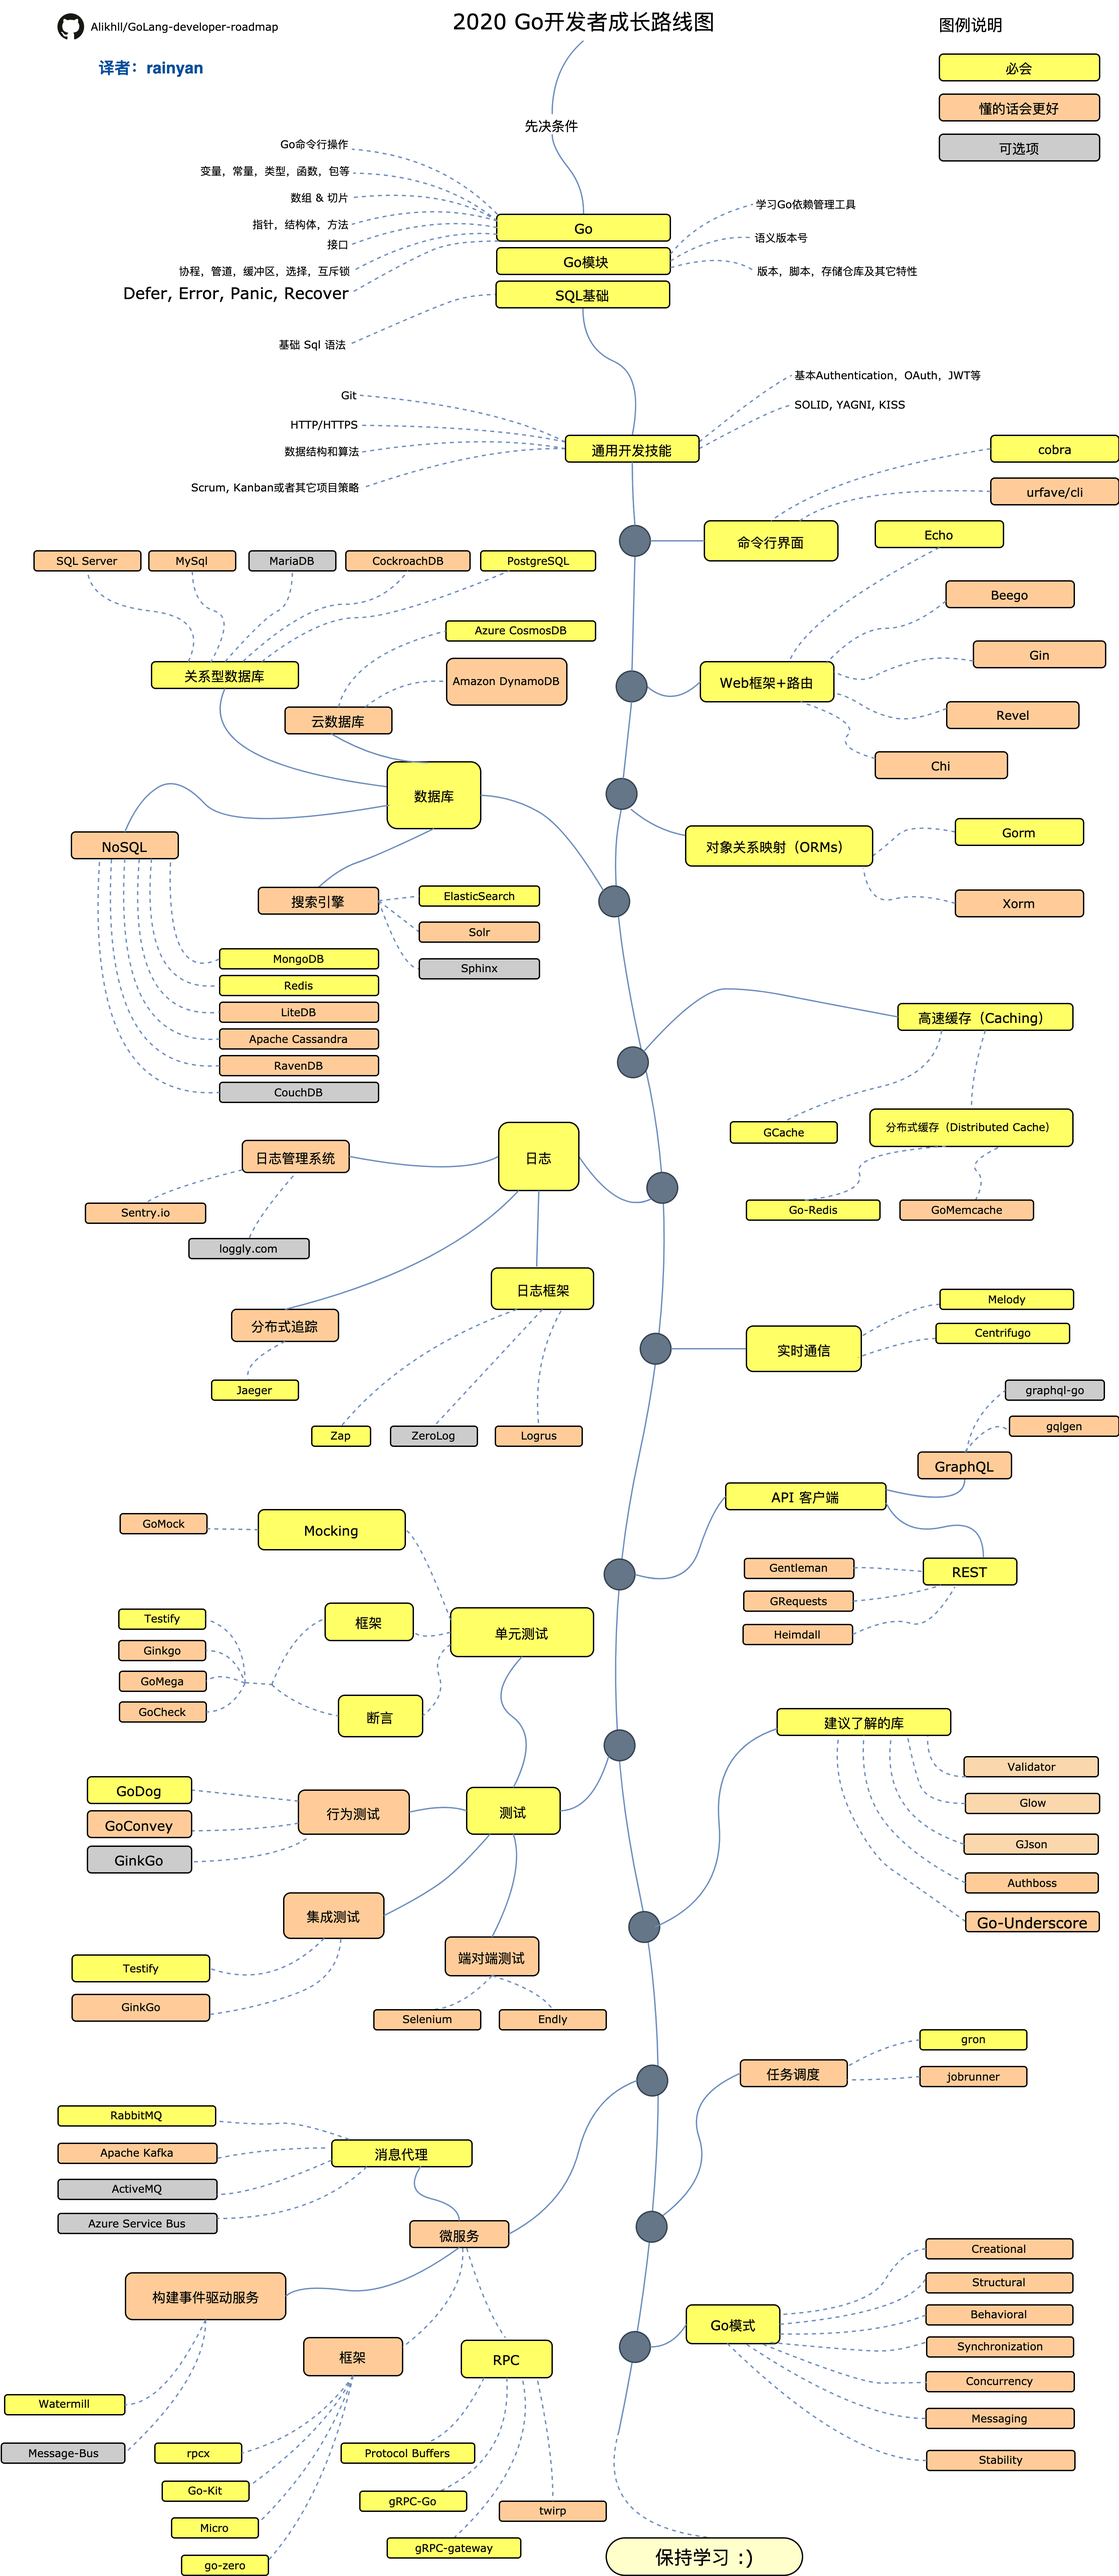
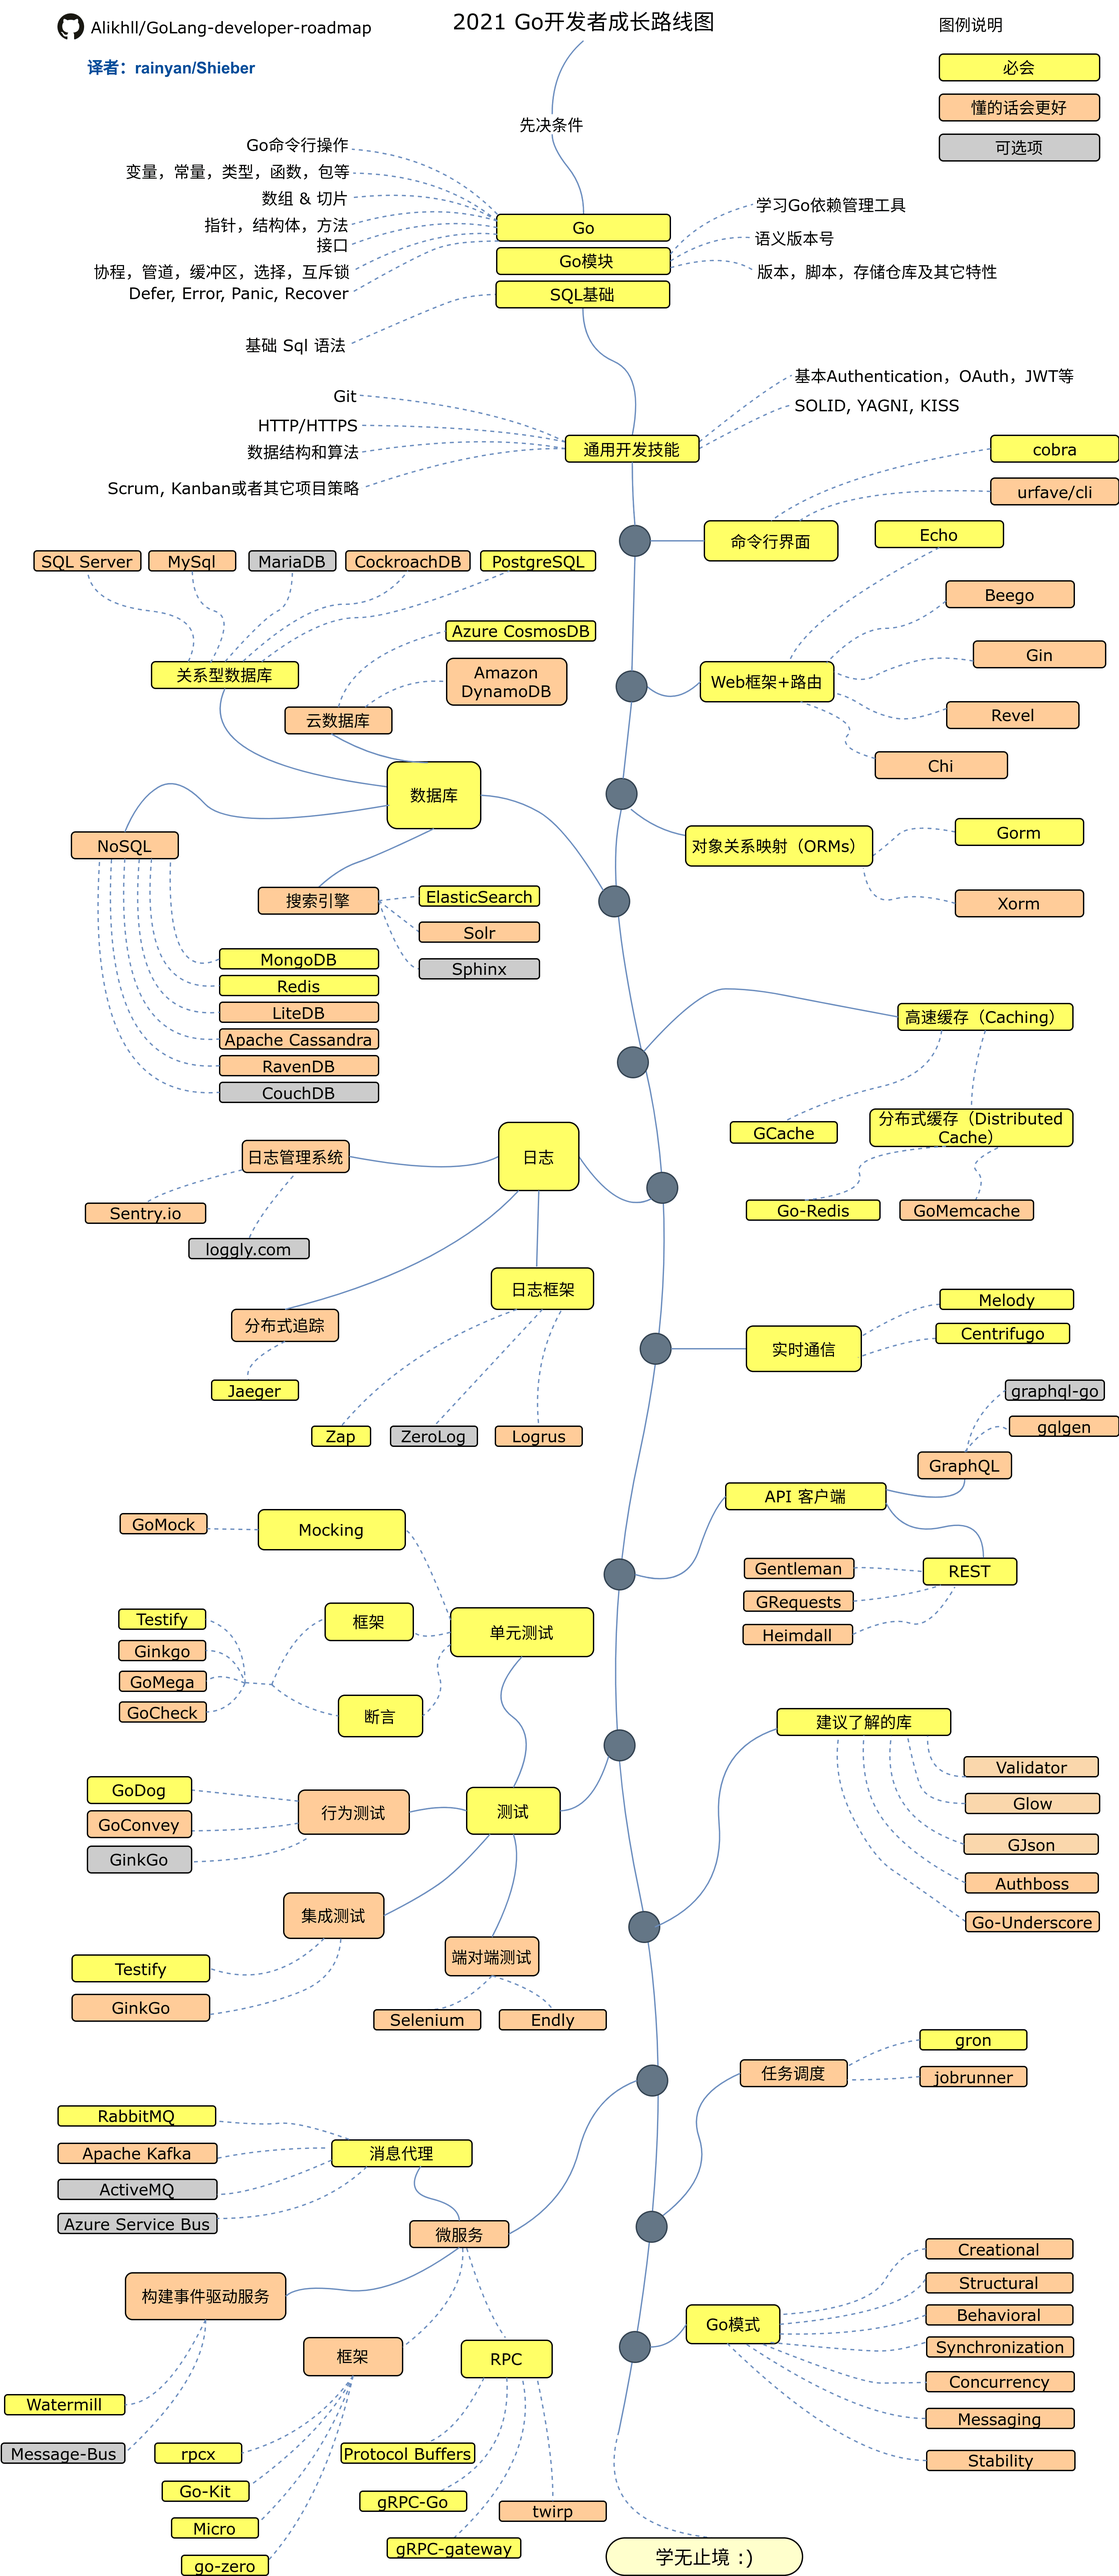
update to 2021

diff --git a/i18n/zh-CN/ReadMe-zh-CN.md b/i18n/zh-CN/ReadMe-zh-CN.md
@@ -1,6 +1,6 @@
 # Go 开发者路线图
 
-> 在 2020年 成为一名 [Go](https://golang.org/) 开发者的路线图：
+> 在 2021 年 成为一名 [Go](https://golang.org/) 开发者的路线图：
 
 ------
 
